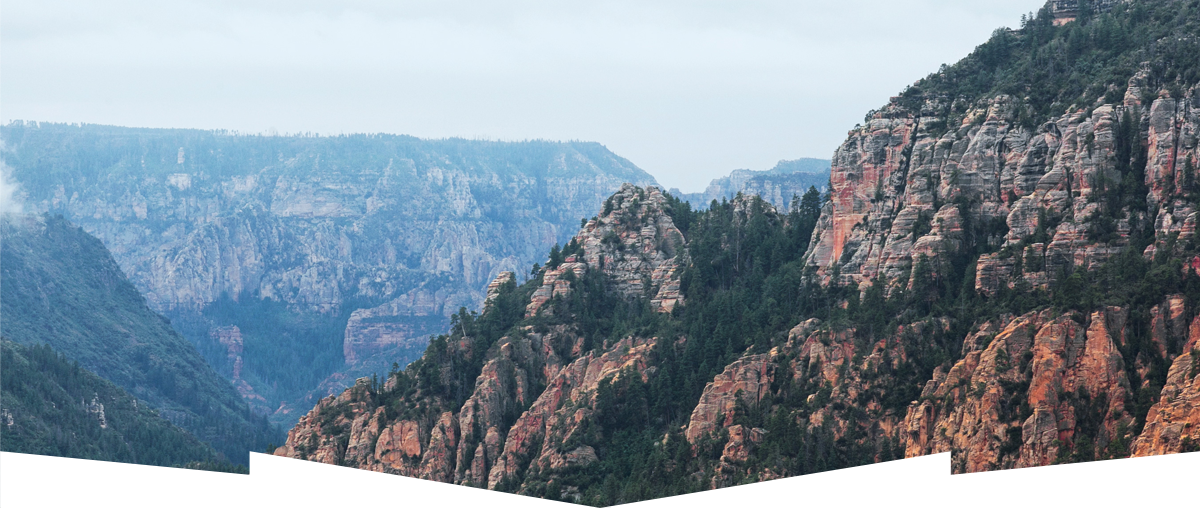
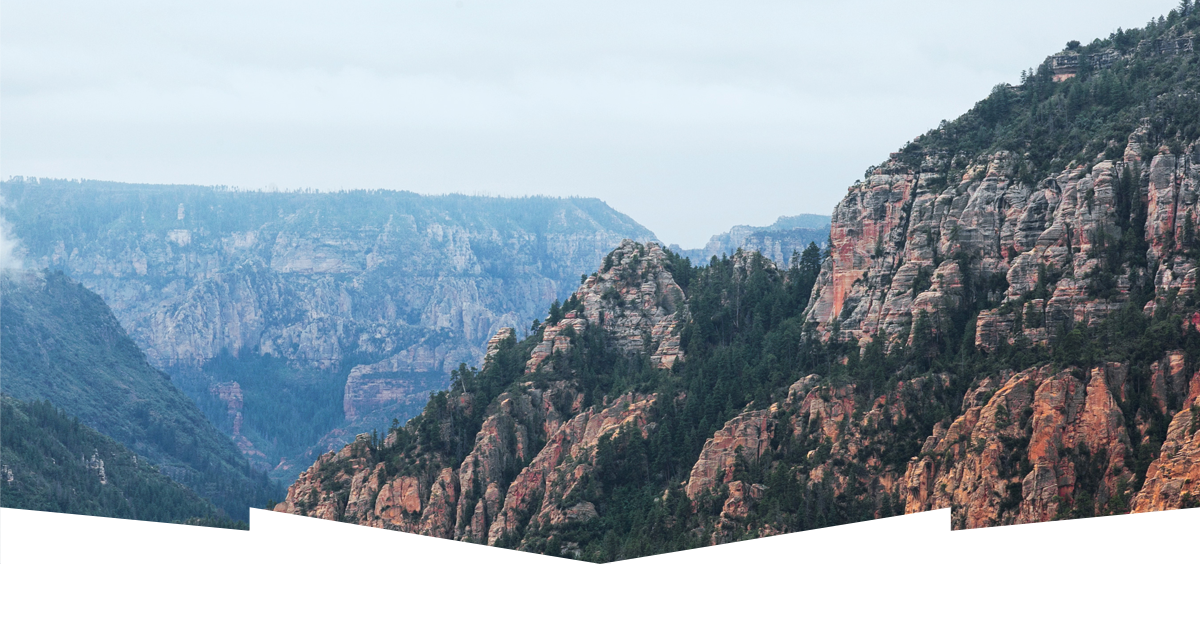
Add content: section

diff --git a/index.html b/index.html
@@ -6,6 +6,7 @@
         <link href="css/main.css" rel="stylesheet" type="text/css">
         <link href="https://fonts.googleapis.com/css?family=PT+Sans:400,700" rel="stylesheet">
         <link href="https://fonts.googleapis.com/css?family=Ramabhadra" rel="stylesheet">
+        <link href="https://fonts.googleapis.com/css?family=Open+Sans+Condensed:300" rel="stylesheet">
         <script src="js/script.js"></script>
     </head>
     <body>
@@ -22,19 +23,19 @@
                         </ul>
                 </nav>
                 <div class="intro">
-                <div class="welcome"></div>
-                <div class="sedona h1 white">sedona</div>
-                <div class="sucks"></div>
-            </div>
-
-
+                    <div class="welcome"></div>
+                    <div class="sedona h1 white">sedona</div>
+                    <div class="sucks"></div>
+                </div>
             </header>
 
             <div class="content">
                 <section>
-                    <p class="h3 black">СЕДОНА — небольшой городок в АРИЗОНЕ,  заслуживающий большего!</p>
-                    <p>Рассмотрим 5 причин, по которым Седона круче, чем гранд каньон!</p>
+                    <p class="h3 black">СЕДОНА — небольшой городок в АРИЗОНЕ,  <br>заслуживающий большего!</p>
+                    <p class="h4">Рассмотрим 5 причин, по которым Седона круче, чем гранд каньон!</p>
                 </section>
+
+
 
                 <!--<div class="row">
                     <div class="c4">

diff --git a/css/main.css b/css/main.css
@@ -310,11 +310,14 @@ body {
   font-weight: 700; }
 
 /*$font-stack: 'PT Sans', sans-serif;*/
-.h2, .h3, .h4 {
+.h2, .h3 {
   font-family: "din", 'PT Sans', sans-serif; }
 
 .h1 {
   font-family: "ram",'Ramabhadra', sans-serif; }
+
+.h4 {
+  font-family: "open",'Open Sans Condensed', sans-serif; }
 
 .h1 {
   font-size: 76px;
@@ -475,7 +478,7 @@ nav {
 .intro {
   background: url(../img/slaider.png);
   background-repeat: no-repeat;
-  height: 509px; }
+  height: 625px; }
   .intro .welcome {
     height: 86px;
     background-image: url(../img/welcome.png);
@@ -502,7 +505,10 @@ nav {
     top: 185px; }
 
 .content {
-  color: #ffffff; }
+  background-color: #ffffff;
+  text-align: center;
+  height: 95px;
+  margin-top: -17px; }
 
 .social {
   background-color: #81b3d2;

diff --git a/sass/base/_typography.scss b/sass/base/_typography.scss
@@ -9,6 +9,7 @@ $gamma-size: 14px;
 
 %din {font-family: "din", 'PT Sans', sans-serif;}
 %ram {font-family: "ram",'Ramabhadra', sans-serif;}
+%open {font-family:  "open",'Open Sans Condensed', sans-serif;}
 
 %heading--0 {
   font-size: $super-size;
@@ -31,7 +32,7 @@ $gamma-size: 14px;
 
 %heading--3 {
   font-size: $gamma-size;
-  @extend %din;
+  @extend %open;
   text-transform: uppercase;
 }
 

diff --git a/sass/page/_header.scss b/sass/page/_header.scss
@@ -50,7 +50,7 @@ nav {
 .intro{
   background: url(../img/slaider.png);
   background-repeat: no-repeat;
-  height: 509px;
+  height: 625px;
 
       .welcome{
         height: 86px;

diff --git a/sass/page/_content.scss b/sass/page/_content.scss
@@ -1,6 +1,7 @@
 .content {
-  color: $white;
+  background-color: $white;
+  text-align: center;
+  height: 95px;
+  margin-top: -17px;
 
-
-  
 }
